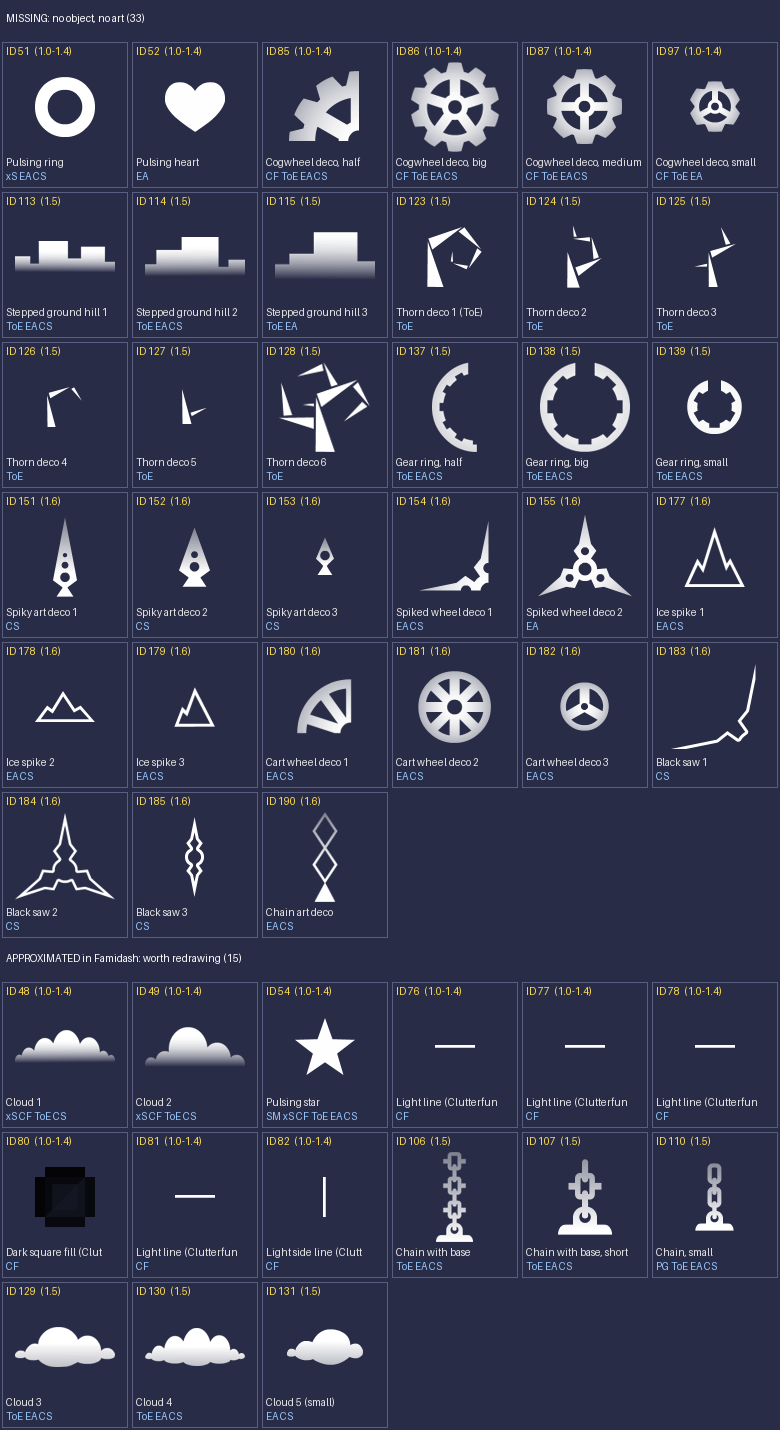
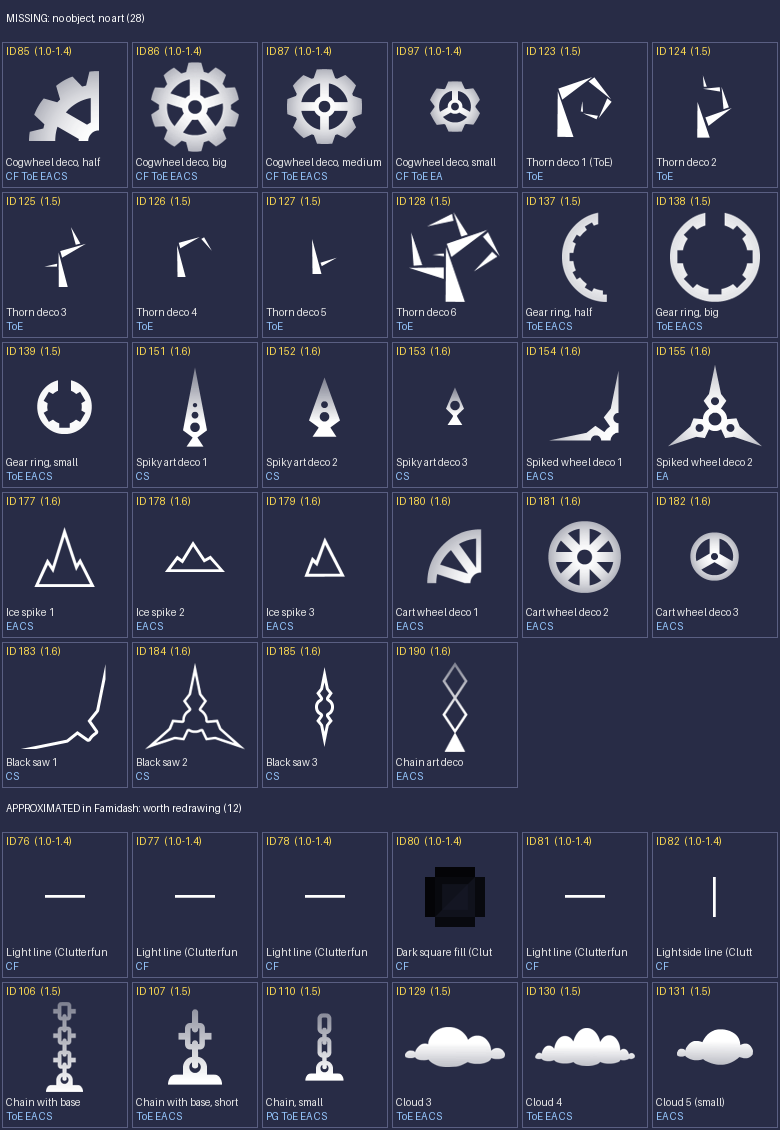
Inventory: art found in the .chr files (clouds 1-2, pulsing ring/heart/star, ToE stepped hills); missing_art.png redone

diff --git a/docs/GD_OBJECT_INVENTORY.md b/docs/GD_OBJECT_INVENTORY.md
@@ -2,7 +2,7 @@
 
 Every object ID the 14 official levels use (decoded from GD 2.2's `Resources/levels/1..14.txt`), its texture (`ObjectToolbox`'s ID-to-frame table, read from GeometryDash.exe), the levels using it, and Famidash's equivalent (`include/famidash_metatiles.c` names; sprite ids from `src/sp_draw.c` / `src/sprites/famidash_sprites.c`; and Famidash's per-level tile sets, tools/build_bg_tiles.py LEVEL_SETS: block set B, spike sets B and C). Matched by eye: textures are GD 2.2's, Famidash's art is NES-style.
 
-Status: **HAVE** Famidash has it. **PART** an approximation or substitute. **MISSING** no object and no art. **ART** (1.6) no object yet, but your art exists (the .chr files). **ENGINE** not a drawn object (enter effects, ghost trail, triggers): an engine feature.
+Status: **HAVE** Famidash has it. **PART** an approximation or substitute. **MISSING** no object and no art. **ART** no object yet (or only Famidash's approximation), but your art exists (the .chr files). **ENGINE** not a drawn object (enter effects, ghost trail, triggers): an engine feature.
 
 Famidash's per-level tile sets (block set B, spike sets B and C) are not kept: in the new version
 every object exists in every level, so an entry "block set B" / "spike set C" means the art exists and
@@ -52,13 +52,13 @@ Levels: 1 SM, 2 BoT, 3 PG, 4 DO, 5 BaB, 6 CLG, 7 Jmp, 8 TM, 9 Cyc, 10 xS, 11 CF,
 | 45 | 1.0-1.4 | Mirror portal (orange) | `portal_05_front_001.png` | TM:3 Cyc:2 CF:1 ToE:2 EA:2 | sprite 126 (CGB) | **HAVE** |
 | 46 | 1.0-1.4 | Mirror portal (blue) | `portal_06_front_001.png` | TM:3 Cyc:1 CF:1 ToE:2 EA:2 | sprite 121 (CGB) | **HAVE** |
 | 47 | 1.0-1.4 | Ball portal | `portal_07_front_001.png` | Cyc:2 xS:2 CF:1 ToE:2 EA:2 CS:1 | sprite 2 | **HAVE** |
-| 48 | 1.0-1.4 | Cloud 1 | `d_cloud_01_001.png` | xS:138 CF:117 ToE:24 CS:16 | CLOUD_* (128-135) | **PART** |
-| 49 | 1.0-1.4 | Cloud 2 | `d_cloud_02_001.png` | xS:115 CF:75 ToE:21 CS:12 | CLOUD_* (128-135) | **PART** |
+| 48 | 1.0-1.4 | Cloud 1 | `d_cloud_01_001.png` | xS:138 CF:117 ToE:24 CS:16 | CLOUD_* (128-135) | **ART** (Wavy Gspikes (NES)) |
+| 49 | 1.0-1.4 | Cloud 2 | `d_cloud_02_001.png` | xS:115 CF:75 ToE:21 CS:12 | CLOUD_* (128-135) | **ART** (Wavy Gspikes (NES)) |
 | 50 | 1.0-1.4 | Pulsing circle | `d_ball_01_001.png` | xS:91 CF:26 ToE:50 EA:114 CS:146 | sprite 73 (pulsing ball) | **HAVE** |
-| 51 | 1.0-1.4 | Pulsing ring | `d_ball_02_001.png` | xS:9 EA:23 CS:5 | - | **MISSING** |
-| 52 | 1.0-1.4 | Pulsing heart | `d_ball_03_001.png` | EA:4 | - | **MISSING** |
+| 51 | 1.0-1.4 | Pulsing ring | `d_ball_02_001.png` | xS:9 EA:23 CS:5 | - | **ART** (GDP Pulsing Obj) |
+| 52 | 1.0-1.4 | Pulsing heart | `d_ball_03_001.png` | EA:4 | - | **ART** (GDP Pulsing Obj) |
 | 53 | 1.0-1.4 | Pulsing diamond | `d_ball_04_001.png` | xS:76 ToE:13 EA:5 CS:11 | sprite 50 | **HAVE** |
-| 54 | 1.0-1.4 | Pulsing star | `d_ball_05_001.png` | SM:8 xS:87 CF:18 ToE:40 EA:74 CS:56 | sprite 54? | **PART** |
+| 54 | 1.0-1.4 | Pulsing star | `d_ball_05_001.png` | SM:8 xS:87 CF:18 ToE:40 EA:74 CS:56 | sprite 54? | **ART** (Clutterfunk Blocks (NES)) |
 | 56 | 1.0-1.4 | Enter effect: fade left | `edit_eeFALBtn_001.png` | EA:1 | - | **ENGINE** |
 | 57 | 1.0-1.4 | Enter effect: fade right | `edit_eeFARBtn_001.png` | EA:3 CS:1 | - | **ENGINE** |
 | 58 | 1.0-1.4 | Enter effect: from right half | `edit_eeFRHBtn_001.png` | xS:4 CF:2 ToE:3 EA:4 CS:5 | - | **ENGINE** |
@@ -108,9 +108,9 @@ Levels: 1 SM, 2 BoT, 3 PG, 4 DO, 5 BaB, 6 CLG, 7 Jmp, 8 TM, 9 Cyc, 10 xS, 11 CF,
 | 107 | 1.5 | Chain with base, short | `d_02_chain_02_001.png` | ToE:1 EA:2 CS:1 | sprite 45 (approx) | **PART** |
 | 110 | 1.5 | Chain, small | `d_chain_02_001.png` | PG:5 ToE:2 EA:1 CS:18 | sprite 45 (approx) | **PART** |
 | 111 | 1.5 | UFO portal | `portal_10_front_001.png` | ToE:2 EA:2 CS:2 | sprite 3 | **HAVE** |
-| 113 | 1.5 | Stepped ground hill 1 (ToE) | `d_brick_01_001.png` | ToE:32 EA:4 CS:2 | - | **MISSING** |
-| 114 | 1.5 | Stepped ground hill 2 (ToE) | `d_brick_02_001.png` | ToE:19 EA:6 CS:28 | - | **MISSING** |
-| 115 | 1.5 | Stepped ground hill 3 (ToE) | `d_brick_03_001.png` | ToE:23 EA:8 | - | **MISSING** |
+| 113 | 1.5 | Stepped ground hill 1 (ToE) | `d_brick_01_001.png` | ToE:32 EA:4 CS:2 | - | **ART** (GDP TOE) |
+| 114 | 1.5 | Stepped ground hill 2 (ToE) | `d_brick_02_001.png` | ToE:19 EA:6 CS:28 | - | **ART** (GDP TOE) |
+| 115 | 1.5 | Stepped ground hill 3 (ToE) | `d_brick_03_001.png` | ToE:23 EA:8 | - | **ART** (GDP TOE) |
 | 116 | 1.5 | Brick block (ToE set) | `square_f_01_001.png` | ToE:16 CS:9 | block set B bricks (ToE, Clutterfunk, Electroman, Clubstep) | **HAVE** |
 | 117 | 1.5 | Brick block, edge (ToE set) | `square_f_02_001.png` | ToE:272 EA:94 CS:445 | block set B | **HAVE** |
 | 118 | 1.5 | Brick block, corner (ToE set) | `square_f_03_001.png` | ToE:53 CS:121 | block set B | **HAVE** |
@@ -185,4 +185,4 @@ Levels: 1 SM, 2 BoT, 3 PG, 4 DO, 5 BaB, 6 CLG, 7 Jmp, 8 TM, 9 Cyc, 10 xS, 11 CF,
 | 198 | 1.6 | Black fake spike, small | `fakeSpike_02_001.png` | CS:4 | FAKE_SPIKE_HALF (203) | **HAVE** |
 | 199 | 1.6 | Black fake spike, medium | `fakeSpike_03_001.png` | CS:139 | FAKE_SMALL_SPIKE_* (205-207) | **HAVE** |
 
-Totals over the 171 IDs: ART 28, ENGINE 14, HAVE 81, MISSING 33, PART 15
+Totals over the 171 IDs: ART 36, ENGINE 14, HAVE 81, MISSING 28, PART 12

diff --git a/docs/PLAN_1.6.md b/docs/PLAN_1.6.md
@@ -15,11 +15,13 @@ or 210-tiles-per-level limit.
 - **The object list is fixed and small.** GD 1.6 added IDs 142–199 (57 objects). The 14 official
   levels use 171 different IDs in all, none above 199. Source: GD's own data on this PC (IDs,
   textures, per-level counts). Full table: `docs/GD_OBJECT_INVENTORY.md`.
-- **Famidash already covers most of it.** Of the 171: 81 it has, 15 approximated, 33 missing,
-  28 are 1.6 objects whose art you already drew, 14 are engine effects (enter effects, ghost trail).
-- **Your art** (the 9 `.chr` files) covers the 1.6 blocks, outlines and rails, waves and saws.
+- **Famidash already covers most of it.** Of the 171: 81 it has, 12 approximated, 28 missing,
+  36 have your art but no object yet, 14 are engine effects (enter effects, ghost trail).
+- **Your art** (the 9 `.chr` files; Clutterfunk Blocks, Wavy Gspikes, y did i do this and
+  sopeslopeslopeslope are NES format, the rest GB) covers the 1.6 blocks, outlines and rails, waves
+  and saws, plus clouds 1–2, the pulsing ring, heart and star, and ToE's stepped ground hills.
   Still to draw: ice spikes, black saws, spiked and cart wheels, spike art, chain art (1.6), and
-  1.5's ground hills, thorns, gear rings, cogwheels.
+  1.5's thorns, gear rings, cogwheels, clouds 3–5, chains.
 - **GD places objects anywhere**, rotated in 90° steps, flipped and stacked (Electroman: 5643
   objects, 3468 of them off the block grid). Famidash's half spikes, half orb rings, combined
   "spike on slab" pieces and quarter blocks are all workarounds for that.
@@ -61,11 +63,11 @@ without your OK.
 - Check: levels still look and play the same.
 
 ### Phase 3 — Fill the 1.5 gaps
-- The missing 1.5 objects (ground hills, thorns, gear rings, clouds, cogwheels), with your art.
+- The missing 1.5 objects (ground hills, thorns, gear rings, clouds, cogwheels, chains), with your art.
 - Theory of Everything gets them first.
 
 ### Phase 4 — 1.6 objects
-- Import your 1.6 art (28 objects); draw the 15 missing.
+- Import your 1.6 art; draw the 15 missing.
 - Mechanics, one at a time: breakable bricks, fading objects, rotating decorations.
 
 ### Phase 5 — Electroman and Clubstep as 1.6
